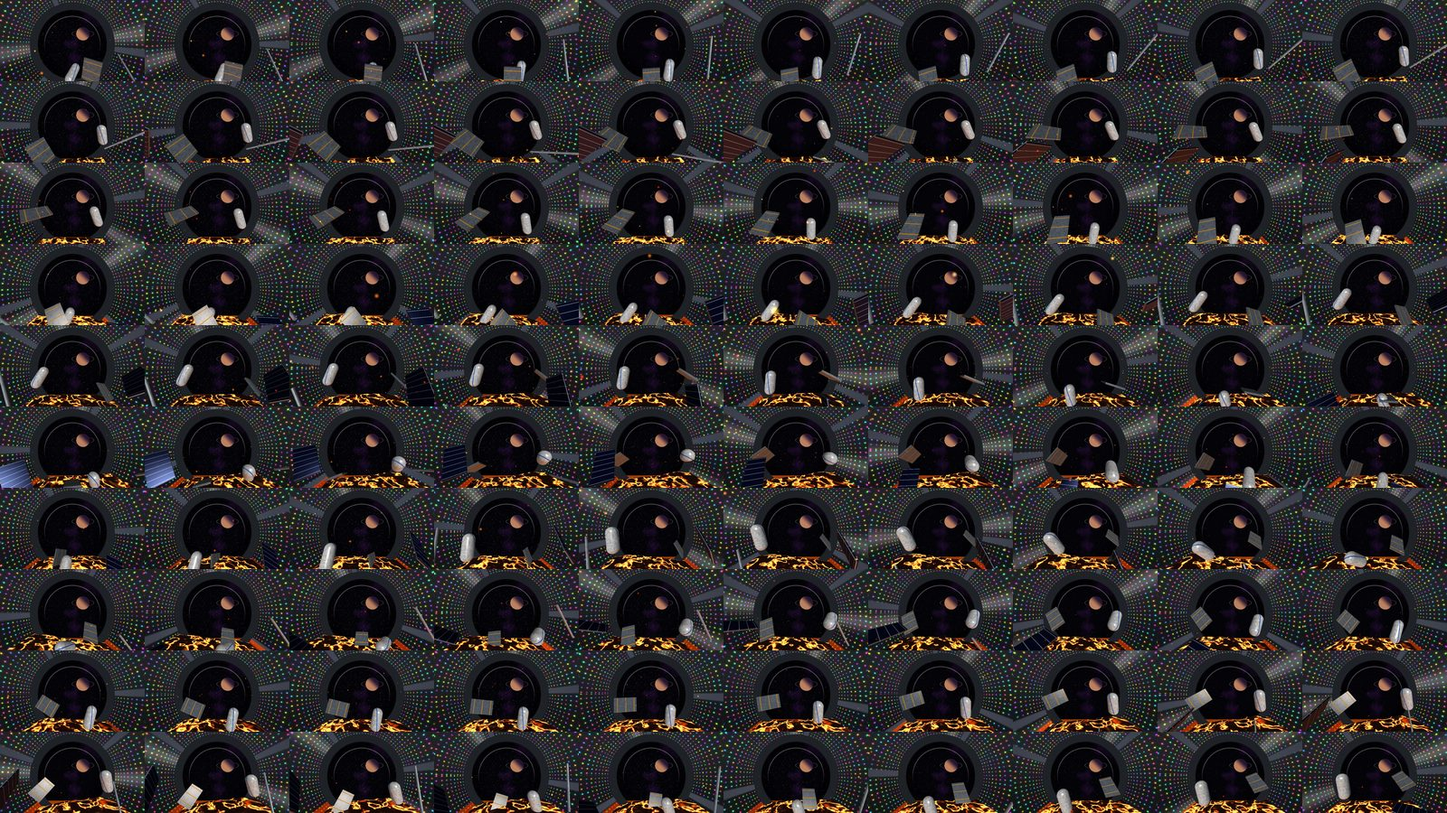
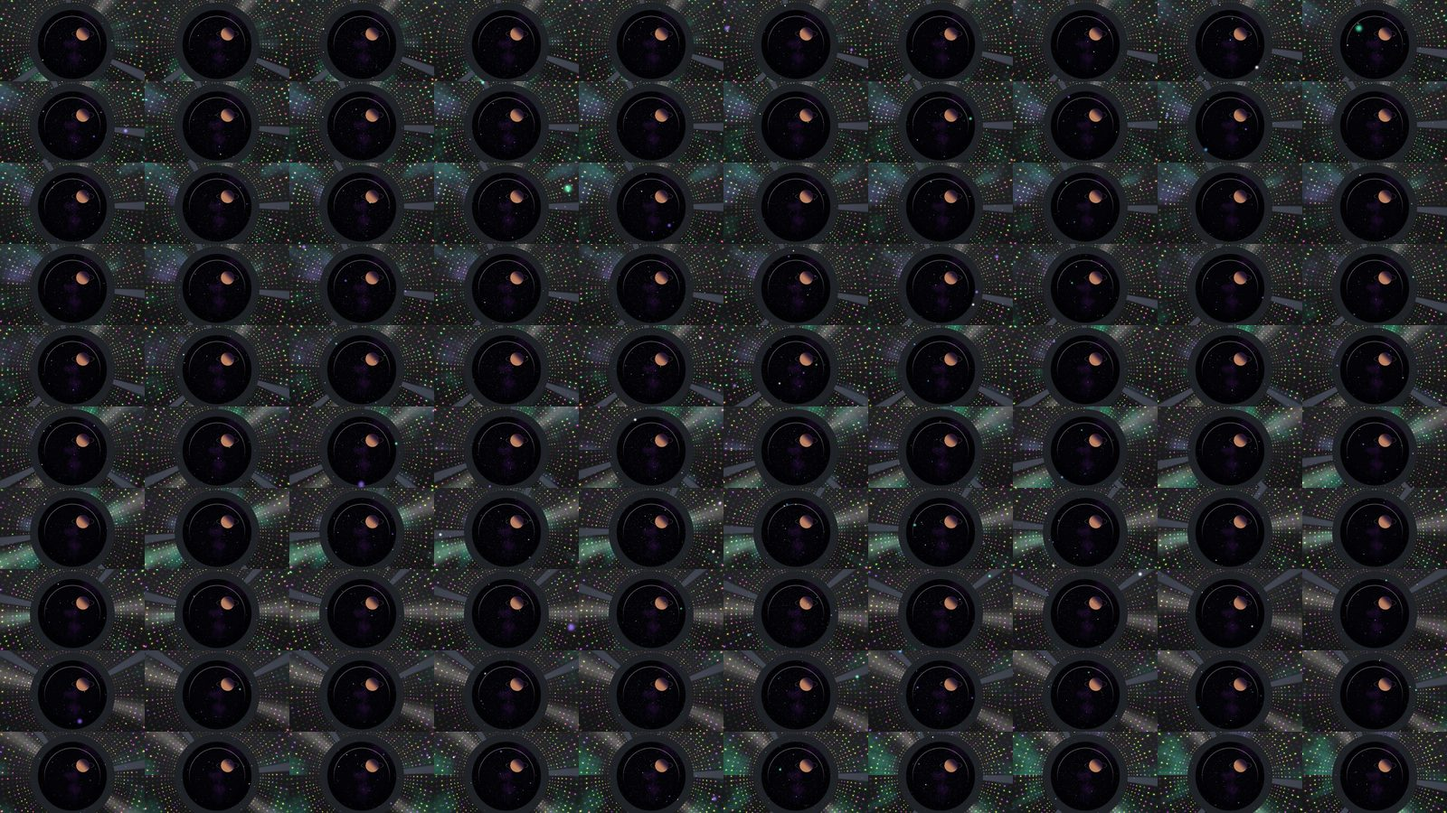
Drone show formations; calmer Space wash; menu blocks scene gestures; Church bells removed
- Drone light show: the dog, lady and bunny portraits are replaced by eleven
  formations: a turning Ferris wheel, a cottage with drifting chimney smoke, the
  Earth turning, a hovering rocket with a flickering flame, a breathing lotus, a
  butterfly flapping, Saturn and its rings, a bobbing hot-air balloon, a pulsing
  jellyfish, a whale sweeping its tail, and a crescent moon with stars
- Space wash: no junk or lava; each glowing hole breathes on its own in soft
  colours, aurora flows along the walls and stars stream in towards you; the
  drum turns slowly
- With the menu open in the headset, hands and pointers no longer reach the scene
- Church bells journey removed (scene hidden)
- sw v107

Claude-Session: https://claude.ai/code/session_0157Wu3LX7XvtocLAYFRUbic

diff --git a/src/visuals/scenes/drones.js b/src/visuals/scenes/drones.js
@@ -3,8 +3,9 @@ import { BaseScene, NOISE, GRADE, STARS, POINT_SIZE, SFX, damp } from '../common
 
 // ===================================================================== Drone light show
 // Over a still night lake, a swarm of glowing drones glides from one formation
-// to the next like a murmuration of light: a slowly turning globe, a heart, the words "You Matter", "Amazing" and "You are Enough", and a
-// spiral galaxy, each mirrored in the water below.
+// to the next like a murmuration of light: a slowly turning globe, a heart, the words "You Matter", "Amazing" and "You are Enough", a
+// spiral galaxy, a turning Ferris wheel, a cottage, the Earth, a rocket, a lotus, a butterfly,
+// Saturn, a hot-air balloon, a jellyfish, a whale and the moon, each mirrored in the water below.
 const N = 1400;
 const CY = 22, CZ = -42;
 const WORD_DRONES = 820;      // enough to read clearly, without crowding the letters          // centre of the show in the sky
@@ -200,6 +201,155 @@ function pick(src) {
   return out;
 }
 
+
+// ---- blissful formations: points with their own colours, and some that move
+// a point: [x, y, z, parked, r, g, b, kind, a, rad, ox, oy] (kind/a/rad/ox/oy for moving parts)
+const hexRGB = (h) => { const c = new THREE.Color(h); return [c.r, c.g, c.b]; };
+function fillN(pts, width = 30) {
+  const lit = pts.length > N ? pts.sort(() => Math.random() - 0.5).slice(0, N) : pts;
+  const parked = Array.from({ length: N - lit.length }, (_, i) => [(i / Math.max(1, N - lit.length) - 0.5) * width, -CY + 4 + Math.random() * 2, (Math.random() - 0.5) * 6, 1]);
+  return lit.concat(parked);
+}
+function ferrisTargets() {
+  const R = 12, pts = [];
+  for (const z of [-1.2, 1.2]) for (let i = 0; i < 170; i++) { const a = (i / 170) * Math.PI * 2; pts.push([0, 0, z, 0, ...hexRGB(i % 2 ? '#7ff0ff' : '#ffffff'), 1, a, R]); }
+  for (let s = 0; s < 12; s++) for (let k = 1; k < 10; k++) { const a = (s / 12) * Math.PI * 2; pts.push([0, 0, 0, 0, ...hexRGB('#b48aff'), 1, a, (k / 10) * R]); }
+  const cabCols = ['#ff7a9a', '#ffd27a', '#7affb0', '#7ac8ff', '#ff9a5a', '#e08aff'];
+  for (let c = 0; c < 16; c++) { const a = (c / 16) * Math.PI * 2; for (let k = 0; k < 18; k++) pts.push([0, 0, 0, 0, ...hexRGB(cabCols[c % 6]), 2, a, R, ((k % 6) / 5 - 0.5) * 1.6, -0.6 - Math.floor(k / 6) * 0.55]); }
+  for (let k = 0; k < 18; k++) pts.push([0, 0, 0, 0, ...hexRGB('#ffffff'), 1, (k / 18) * Math.PI * 2, 0.8]);
+  for (const sx of [-1, 1]) for (const z of [-1.5, 1.5]) for (let k = 0; k < 26; k++) { const f = k / 25; pts.push([sx * f * 9, -f * 17, z, 0, ...hexRGB('#8a9ab8')]); }
+  for (const p of pts) if (p[7]) { const a = p[8]; p[0] = Math.cos(a) * p[9] + (p[7] === 2 ? p[10] : 0); p[1] = Math.sin(a) * p[9] + (p[7] === 2 ? p[11] : 0); }
+  return fillN(pts);
+}
+const ferrisAnim = (b, t) => {
+  if (!b[7]) return b;
+  const a = b[8] + t * 0.22;
+  return [Math.cos(a) * b[9] + (b[7] === 2 ? b[10] : 0), Math.sin(a) * b[9] + (b[7] === 2 ? b[11] : 0), b[2]];
+};
+function earthTargets() {
+  const pts = [], M = 1250, R = 13;
+  for (let i = 0; i < M; i++) {
+    const y = 1 - (i + 0.5) / M * 2, r = Math.sqrt(1 - y * y), lon = i * 2.39996, lat = Math.asin(y);
+    const land = Math.sin(lon * 2 + 1.3) * Math.cos(lat * 2) + 0.6 * Math.sin(lon * 3 - 2) * Math.sin(lat * 3 + 1) + 0.4 * Math.cos(lon * 5 + lat * 4);
+    let col = land > 0.25 ? (Math.abs(lat) < 0.5 && land > 0.85 ? '#d9b26a' : '#3fbf5a') : '#2a6fe0';
+    if (Math.abs(lat) > 1.15) col = '#f2f8ff';
+    if (Math.sin(lon * 7 + lat * 9) + Math.sin(lon * 3 - lat * 11) > 1.55) col = '#ffffff';   // a few clouds
+    pts.push([Math.cos(lon) * r * R, y * R, Math.sin(lon) * r * R, 0, ...hexRGB(col)]);
+  }
+  return fillN(pts);
+}
+function saturnTargets() {
+  const pts = [], R = 7;
+  for (let i = 0; i < 700; i++) {
+    const y = 1 - (i + 0.5) / 700 * 2, r = Math.sqrt(1 - y * y), a = i * 2.39996;
+    pts.push([Math.cos(a) * r * R, y * R * 0.92, Math.sin(a) * r * R, 0, ...hexRGB(Math.sin(y * 14) > 0.3 ? '#f2d39a' : '#d9a86a')]);
+  }
+  const tilt = 0.42;
+  for (let i = 0; i < 620; i++) {
+    const rr = 10 + Math.random() * 6, a = Math.random() * Math.PI * 2;
+    if (rr > 13.2 && rr < 13.7) continue;   // the Cassini division
+    const x = Math.cos(a) * rr, z = Math.sin(a) * rr;
+    pts.push([x, -z * Math.sin(tilt), z * Math.cos(tilt), 0, ...hexRGB(rr < 13 ? '#fff0c8' : '#e8c890')]);
+  }
+  return fillN(pts);
+}
+function butterflyTargets() {
+  const pts = [];
+  const inWing = (x, y) => ((x - 6) / 7) ** 2 + ((y - 3.5) / 5.5) ** 2 < 1 || ((x - 4.5) / 4.5) ** 2 + ((y + 4) / 3.8) ** 2 < 1;
+  while (pts.length < 2300) {
+    const x = Math.random() * 14, y = Math.random() * 18 - 8.5;
+    if (x < 0.4 || !inWing(x, y)) continue;
+    const edge = !inWing(x + 0.9, y) || !inWing(x, y + 0.9) || !inWing(x, y - 0.9);
+    const spot = (x - 9) ** 2 + (y - 5) ** 2 < 1.6 || (x - 6) ** 2 + (y + 4.5) ** 2 < 1.2;
+    const col = spot ? '#ffffff' : edge ? '#7a3aaa' : y > 0 ? (x > 7 ? '#ff8a3a' : '#ffb04a') : '#c86aff';
+    for (const sx of [1, -1]) pts.push([sx * x, y, 0, 0, ...hexRGB(col), 3]);
+  }
+  for (let k = 0; k < 40; k++) pts.push([0, -6 + k * 0.32, 0, 0, ...hexRGB('#ffe8c8')]);
+  for (const sx of [-1, 1]) for (let k = 0; k < 10; k++) pts.push([sx * k * 0.3, 7 + k * 0.4, 0, 0, ...hexRGB('#ffe8c8')]);   // antennae
+  return fillN(spread(pts.sort(() => Math.random() - 0.5), 1250));
+}
+const butterflyAnim = (b, t) => {
+  if (b[7] !== 3) return b;
+  const f = 0.75 * Math.sin(t * 2.0) ** 2;   // the wings lift and open again
+  return [Math.sign(b[0]) * Math.abs(b[0]) * Math.cos(f), b[1], Math.abs(b[0]) * Math.sin(f) + b[2]];
+};
+function jellyfishTargets() {
+  const pts = [];
+  for (let i = 0; i < 620; i++) {
+    const y = (i + 0.5) / 620, r = Math.sqrt(1 - y * y), a = i * 2.39996;
+    pts.push([Math.cos(a) * r * 8, 6 + y * 5.5, Math.sin(a) * r * 8, 0, ...hexRGB(y > 0.6 ? '#ffb8f0' : '#c88aff'), 4]);
+  }
+  for (let s = 0; s < 12; s++) {
+    const a = (s / 12) * Math.PI * 2, cx = Math.cos(a) * (s % 2 ? 6 : 3.5), cz = Math.sin(a) * (s % 2 ? 6 : 3.5);
+    for (let k = 0; k < 55; k++) pts.push([cx, 6 - k * 0.32, cz, 0, ...hexRGB(s % 2 ? '#8af0ff' : '#ffd0f8'), 5, s, k * 0.32]);
+  }
+  return fillN(pts);
+}
+const jellyAnim = (b, t) => {
+  if (b[7] === 4) { const k = 1 + 0.07 * Math.sin(t * 1.4); return [b[0] * k, 6 + (b[1] - 6) / k, b[2] * k]; }
+  if (b[7] === 5) { const d = b[9], w = (Math.sin(t * 1.4 - d * 0.35 + b[8]) - Math.sin(-d * 0.35 + b[8])) * 0.12 * d; return [b[0] + w, b[1], b[2] + w * 0.5]; }
+  return b;
+};
+// pictures, drawn and then flown
+function drawCottage(c) {
+  c.fillStyle = '#3a8a4a'; c.fillRect(0, 335, 600, 65);                                          // the lawn
+  c.fillStyle = '#e8eef8'; c.fillRect(170, 190, 260, 150);                                       // the walls
+  c.fillStyle = '#e0553a'; c.beginPath(); c.moveTo(150, 195); c.lineTo(300, 90); c.lineTo(450, 195); c.fill();   // the roof
+  c.fillStyle = '#b07a5a'; c.fillRect(380, 100, 30, 70);                                         // the chimney
+  c.fillStyle = '#ffd36a'; for (const [x, y] of [[195, 215], [345, 215], [195, 275]]) c.fillRect(x, y, 55, 42);   // glowing windows
+  c.beginPath(); c.arc(300, 140, 18, 0, Math.PI * 2); c.fill();                                  // the round attic window
+  c.fillStyle = '#a06a3a'; c.fillRect(280, 270, 44, 70);                                         // the door
+  c.fillStyle = '#e8e8e8'; for (let k = 0; k < 5; k++) { c.beginPath(); c.arc(398 + k * 16, 80 - k * 18, 10 + k * 3, 0, Math.PI * 2); c.fill(); }   // smoke
+  c.fillStyle = '#3aaa5a'; c.beginPath(); c.arc(510, 230, 50, 0, Math.PI * 2); c.fill(); c.fillStyle = '#8a5a3a'; c.fillRect(500, 270, 20, 65);   // a tree
+}
+const cottageAnim = (b, t) => (b[4] > 0.85 && b[5] > 0.85 && b[6] > 0.85 && b[1] > 9 ? [b[0] + 0.6 * (Math.sin(t * 0.9 + b[1] * 0.4) - Math.sin(b[1] * 0.4)), b[1] + 0.5 * Math.sin(t * 0.6) ** 2, b[2]] : b);
+function drawRocket(c) {
+  c.fillStyle = '#e8eef8'; c.beginPath(); c.moveTo(300, 30); c.bezierCurveTo(360, 90, 360, 220, 340, 290); c.lineTo(260, 290); c.bezierCurveTo(240, 220, 240, 90, 300, 30); c.fill();
+  c.fillStyle = '#ff4a5a'; c.beginPath(); c.moveTo(300, 30); c.bezierCurveTo(330, 55, 342, 80, 345, 100); c.lineTo(255, 100); c.bezierCurveTo(258, 80, 270, 55, 300, 30); c.fill();   // the nose
+  c.fillStyle = '#5ab8ff'; c.beginPath(); c.arc(300, 160, 26, 0, Math.PI * 2); c.fill();      // the porthole
+  c.fillStyle = '#ff4a5a'; c.beginPath(); c.moveTo(262, 230); c.lineTo(215, 300); c.lineTo(262, 290); c.fill(); c.beginPath(); c.moveTo(338, 230); c.lineTo(385, 300); c.lineTo(338, 290); c.fill();   // fins
+  c.fillStyle = '#ffa020'; c.beginPath(); c.moveTo(268, 292); c.quadraticCurveTo(300, 400, 332, 292); c.fill();   // the flame
+  c.fillStyle = '#fff07a'; c.beginPath(); c.moveTo(284, 292); c.quadraticCurveTo(300, 360, 316, 292); c.fill();
+}
+const rocketAnim = (b, t, i) => {
+  const flame = b[1] < -4 && b[4] > 0.9 && b[6] < 0.6;
+  return [b[0], b[1] + 0.6 * Math.sin(t * 0.8) + (flame ? 0.5 * (Math.sin(t * 13 + i) - Math.sin(i)) : 0), b[2]];
+};
+function drawLotus(c) {
+  c.fillStyle = '#3aaa6a'; c.beginPath(); c.ellipse(170, 330, 120, 26, 0, 0, Math.PI * 2); c.fill(); c.beginPath(); c.ellipse(440, 335, 120, 24, 0, 0, Math.PI * 2); c.fill();   // lily pads
+  const petal = (a, len, w, col) => { c.save(); c.translate(300, 300); c.rotate(a); c.fillStyle = col; c.beginPath(); c.moveTo(0, 0); c.quadraticCurveTo(w, -len * 0.55, 0, -len); c.quadraticCurveTo(-w, -len * 0.55, 0, 0); c.fill(); c.restore(); };
+  for (const a of [-1.3, -0.85, 0.85, 1.3]) petal(a, 170, 60, '#ff8ac8');
+  for (const a of [-0.55, -0.2, 0.2, 0.55]) petal(a, 210, 55, '#ffb8e0');
+  petal(0, 240, 50, '#fff0f8');
+  c.fillStyle = '#ffd36a'; c.beginPath(); c.ellipse(300, 290, 40, 16, 0, 0, Math.PI * 2); c.fill();
+}
+const lotusAnim = (b, t) => { const k = 1 + 0.05 * Math.sin(t * 0.7); return [b[0] * k, b[1] * k, b[2]]; };
+function drawBalloon(c) {
+  const cols = ['#ff4a5a', '#ffb02a', '#ffe14a', '#4ad07a', '#4ab8ff', '#a46aff'];
+  c.save(); c.beginPath(); c.moveTo(300, 330); c.bezierCurveTo(140, 230, 150, 30, 300, 30); c.bezierCurveTo(450, 30, 460, 230, 300, 330); c.clip();
+  for (let k = 0; k < 12; k++) { c.fillStyle = cols[k % 6]; c.fillRect(150 + k * 26, 0, 26, 400); }
+  c.restore();
+  c.strokeStyle = '#e8d8b0'; c.lineWidth = 4; c.beginPath(); c.moveTo(270, 318); c.lineTo(282, 360); c.moveTo(330, 318); c.lineTo(318, 360); c.stroke();
+  c.fillStyle = '#c08a5a'; c.fillRect(276, 358, 48, 34);
+}
+const balloonAnim = (b, t) => [b[0] + 1.0 * Math.sin(t * 0.3), b[1] + 1.4 * Math.sin(t * 0.5), b[2]];
+function drawWhale(c) {
+  c.fillStyle = '#3a8ae0';
+  c.beginPath(); c.moveTo(60, 230); c.bezierCurveTo(80, 120, 300, 110, 420, 190); c.bezierCurveTo(460, 210, 480, 220, 500, 200);
+  c.lineTo(560, 150); c.lineTo(545, 215); c.lineTo(580, 260); c.lineTo(500, 235); c.bezierCurveTo(440, 270, 200, 300, 60, 230); c.fill();
+  c.fillStyle = '#bfe0ff'; c.beginPath(); c.moveTo(70, 240); c.bezierCurveTo(160, 290, 330, 280, 430, 240); c.bezierCurveTo(330, 260, 160, 265, 70, 240); c.fill();   // the pale belly
+  c.fillStyle = '#ffffff'; c.beginPath(); c.arc(130, 200, 7, 0, Math.PI * 2); c.fill();   // eye
+  c.fillStyle = '#bff0ff'; for (let k = 0; k < 6; k++) { c.beginPath(); c.arc(150 + (k % 2 ? 10 : -10), 110 - k * 14, 6 + k, 0, Math.PI * 2); c.fill(); }   // the spout
+}
+const whaleAnim = (b, t) => (b[0] > 6 ? [b[0], b[1] + 1.4 * Math.sin(t * 1.1) * ((b[0] - 6) / 14), b[2]] : [b[0], b[1] + 0.3 * Math.sin(t * 1.1), b[2]]);
+function drawMoon(c) {
+  c.fillStyle = '#ffe9a8'; c.beginPath(); c.arc(300, 200, 140, 0, Math.PI * 2); c.fill();
+  c.globalCompositeOperation = 'destination-out'; c.beginPath(); c.arc(360, 170, 125, 0, Math.PI * 2); c.fill(); c.globalCompositeOperation = 'source-over';
+  c.fillStyle = '#ffffff';
+  const star = (x, y, r) => { c.beginPath(); for (let k = 0; k < 10; k++) { const a = (k / 10) * Math.PI * 2 - Math.PI / 2, rr = k % 2 ? r * 0.45 : r; c.lineTo(x + Math.cos(a) * rr, y + Math.sin(a) * rr); } c.fill(); };
+  star(470, 90, 26); star(520, 230, 18); star(420, 310, 20); star(90, 80, 16); star(540, 340, 12);
+}
+
 const SHOW = [
   { kind: 'sphere', hold: 16, cols: ['#6fd3ff', '#a493ff', '#ffffff'], spin: 0.15 },
   { kind: 'heart', hold: 18, cols: ['#ff3b6b', '#ff6f91', '#ffb3c6'], spin: 0.05 },
@@ -208,11 +358,18 @@ const SHOW = [
   { kind: 'text', text: 'Amazing', hold: 14, cols: ['#7ff0ff', '#b8a9ff', '#ffffff'] },
   { kind: 'spiral', hold: 16, cols: ['#a493ff', '#f29bd0', '#5ed6d0'], spin: 0.08 },
   { kind: 'text', text: 'You are Enough', hold: 16, cols: ['#ffd27a', '#ffffff', '#ffb36b'] },
-  { kind: 'photo', name: 'dog', hold: 18 },
+  { kind: 'gen', make: ferrisTargets, anim: ferrisAnim, hold: 22 },
+  { kind: 'picture', draw: drawCottage, anim: cottageAnim, hold: 18 },
+  { kind: 'gen', make: earthTargets, hold: 20, spin: 0.12 },
   { kind: 'heart', hold: 10, cols: ['#ff3b6b', '#ff8fb4', '#ffffff'] },
-  { kind: 'photo', name: 'lady', hold: 22 },
-  { kind: 'sphere', hold: 10, cols: ['#6fd3ff', '#a493ff', '#ffffff'], spin: 0.15 },
-  { kind: 'photo', name: 'bunny', hold: 18 },
+  { kind: 'picture', draw: drawRocket, anim: rocketAnim, hold: 16 },
+  { kind: 'picture', draw: drawLotus, anim: lotusAnim, hold: 18 },
+  { kind: 'gen', make: butterflyTargets, anim: butterflyAnim, hold: 18 },
+  { kind: 'gen', make: saturnTargets, hold: 18, spin: 0.08 },
+  { kind: 'picture', draw: drawBalloon, anim: balloonAnim, hold: 16 },
+  { kind: 'gen', make: jellyfishTargets, anim: jellyAnim, hold: 18, spin: 0.05 },
+  { kind: 'picture', draw: drawWhale, anim: whaleAnim, hold: 18 },
+  { kind: 'picture', draw: drawMoon, hold: 16 },
   { kind: 'picture', draw: drawBrand, hold: 16, wide: true },
 ];
 
@@ -300,6 +457,7 @@ export class DroneShowScene extends BaseScene {
     if (f.kind === 'picture') return f.wide ? pictureTargets(f.draw, 66, 1150, 900, 300) : pictureTargets(f.draw, 46, 1100);
     if (f.kind === 'photo') return photoTargets(f.name, f.name === 'lady' ? 34 : 32) || sphereTargets();
     if (f.kind === 'spiral') return spiralTargets();
+    if (f.kind === 'gen') return f.make();
     return sphereTargets();
   }
   // order target points to roughly match where each drone is now, so they glide sideways
@@ -315,7 +473,9 @@ export class DroneShowScene extends BaseScene {
     const cs = Math.cos(this.spin), sn = Math.sin(this.spin);
     const nav = 0.12;
     for (let i = 0; i < N; i++) {
-      const a = this.from[i], b = this.to[i], m = this.mid[i];
+      const a = this.from[i], m = this.mid[i];
+      let b = this.to[i];
+      if (k === 99 && this.cur.anim && !b[3]) b = this.cur.anim(b, this.animT || 0, i);
       const local = (k - this.delay[i]) / this.dur[i];
       const e0 = Math.min(1, Math.max(0, local));
       const e = e0 * e0 * (3 - 2 * e0);
@@ -363,7 +523,9 @@ export class DroneShowScene extends BaseScene {
       this.state = 'move'; this.t = 0;
       if (this.fade > 0.5) SFX.play('whoosh', { pan: 0, dur: 5, gain: 0.25 });
     }
+    if (this.state === 'hold') this.animT = (this.animT || 0) + dt;
     if (this.state === 'move') {
+      this.animT = 0;
       this._place(this.t);
       if (this.t > 8.5) { this.state = 'hold'; this.t = 0; if (this.fade > 0.5) SFX.play('chime', { note: [0, 4, 7, 12][this.step % 4], pan: 0, gain: 0.3 }); }
     } else this._place(99);

diff --git a/src/visuals/scenes/spacewash.js b/src/visuals/scenes/spacewash.js
@@ -3,12 +3,11 @@ import { BaseScene, NOISE, GRADE, SFX, damp } from '../common.js';
 import { particles } from './kit.js';
 
 // ===================================================================== Space wash
-// The washing machine, gone cosmic. Every perforation in the drum is a glowing
-// orb of light; through the door, space. Molten lava floods in instead of water,
-// crusted and cracked with fire, embers rising, and the drum tumbles a load of
-// spaceship junk (hull panels, a solar panel, a dish, a thruster, a fuel tank,
-// an antenna) before draining and spinning up, the orbs streaking into rings of
-// light. The door and the lava stay level, so it stays comfortable.
+// The washing machine, gone cosmic and calm. Every perforation in the drum is
+// an orb of light that breathes on its own, slowly brightening and fading in
+// soft teal, blue, violet and rose; aurora light flows along the walls and a
+// starfield streams in through the door towards you, while the drum turns
+// slowly one way, then the other.
 const R = 2.3, FRONT = -3.2, BACK = 2.6, EYE = 1.6;
 const PHASES = [['fill', 14], ['wash', 42], ['drain', 8], ['spin', 18], ['slow', 7], ['rest', 5]];
 const CYCLE = PHASES.reduce((s, p) => s + p[1], 0);
@@ -42,10 +41,17 @@ export class SpaceWashScene extends BaseScene {
           // every hole a glowing orb, slowly cycling through colours; streaking into rings in the spin
           vec2 id = floor(g);
           float h = fract(sin(dot(id, vec2(12.9898, 78.233))) * 43758.5453);
-          vec3 oc = 0.55 + 0.45 * cos(6.28318 * (h + uTime * 0.05 + vec3(0.0, 0.33, 0.67)));
+          vec3 oc = 0.6 + 0.4 * cos(6.28318 * (h * 0.6 + 0.45 + uTime * 0.01 + vec3(0.0, 0.33, 0.67)));   // soft teal, blue, violet and rose
           float orb = smoothstep(0.2, 0.0, length(f)), halo = exp(-dot(f, f) * 18.0);
           c *= 0.22;   // dark steel, so the orbs shine
-          c += oc * (orb * 1.6 + halo * 0.35) * (0.75 + 0.25 * sin(uTime * 2.0 + h * 40.0));
+          // each orb breathes on its own, slowly: rising, resting, fading
+          float period = 5.0 + h * 9.0, ph = fract(uTime / period + h * 7.0);
+          float breath = pow(0.5 + 0.5 * sin(ph * 6.28318), 2.0);
+          c += oc * (orb * 1.4 + halo * 0.3) * (0.12 + 0.88 * breath);
+          // aurora light flowing along the walls, towards you
+          float flow = fbm(vec3(a * 1.8, z * 0.5 + uTime * 0.35, uTime * 0.05));
+          vec3 ac = mix(vec3(0.1, 0.9, 0.55), vec3(0.6, 0.3, 1.0), smoothstep(0.3, 0.8, fbm(vec3(a, z * 0.2, 7.0))));
+          c += ac * smoothstep(0.5, 0.85, flow) * 0.45;
           c += vec3(1.0, 0.97, 0.9) * pow(max(0.0, sin(a * 2.0 + 1.0)), 30.0) * 0.25 * lightF;   // a soft sheen
           // the three paddles
           float pd = abs(fract(a / 6.28318 * 3.0) - 0.5);
@@ -113,8 +119,7 @@ export class SpaceWashScene extends BaseScene {
           c += vec3(1.0, 0.5, 0.1) * pow(vnoise(vec3(vP.xz * 6.0, uTime * 1.5)), 10.0) * 0.8;   // bubbles bursting
           gl_FragColor = vec4(grade(c), uFade); }`,
     }));
-    this.rig.add(water);
-    this.suds = particles(U, { count: 320, min: [-1.8, -2.2, -3], max: [1.8, 0.4, 2.4], vel: [0, 0.35, 0], sway: 0.4, size: [0.01, 0.035], colors: ['#ffb040', '#ff6a10', '#ffe08a'], alpha: 0 });   // embers
+    this.suds = particles(U, { count: 700, min: [-1.7, -1.7, FRONT], max: [1.7, 1.7, BACK], vel: [0, 0, 1.6], sway: 0.15, size: [0.008, 0.03], colors: ['#ffffff', '#9affd8', '#c8a8ff', '#8ad8ff'], alpha: 0.85 });   // stars streaming in through the door
     this.rig.add(this.suds);
 
     // the load: spaceship junk, metal and panels, lit by the lava and the orbs
@@ -140,55 +145,20 @@ export class SpaceWashScene extends BaseScene {
       [new THREE.CylinderGeometry(0.02, 0.02, 1.0, 8), metal('#c8ccd2', '#c8ccd2', 0)],               // an antenna
       [new THREE.BoxGeometry(0.4, 0.4, 0.4), metal('#7a7f88', '#e74c3c', 0)],                         // a cargo box
     ];
-    this.clothes = junk.map(([g, mat], i) => {
-      const m = new THREE.Mesh(g, mat);
-      this.rig.add(m);
-      return { m, phase: i / junk.length * Math.PI * 2, z: FRONT + 0.9 + (i % 4) * 1.2, spin: new THREE.Vector3(Math.random(), Math.random(), Math.random()) };
-    });
+    this.clothes = [];   // nothing tumbling: just light
 
     this.t = 0; this.ang = 0; this.vel = 0; this.dir = 1; this.flip = 8; this.phaseName = '';
   }
   _sfx(kind, o) { if (this.fade > 0.5) SFX.play(kind, o); }
   update(dt) {
     const U = this.uniforms;
-    this.t = (this.t + dt) % CYCLE;
-    let k = this.t, ph = 'fill', pt = 0;
-    for (const [name, len] of PHASES) { if (k < len) { ph = name; pt = k / len; break; } k -= len; }
-    if (ph !== this.phaseName) {
-      this.phaseName = ph;
-      if (ph === 'fill') this._sfx('hiss', { pan: 0, gain: 0.4, dur: 12, freq: 180 });
-      if (ph === 'spin') this._sfx('whoosh', { pan: 0, dur: 6, gain: 0.5 });
-      if (ph === 'drain') this._sfx('hiss', { pan: 0.3, gain: 0.3, dur: 7, freq: 140 });
-    }
-    // water level: fills, holds, drains
-    const full = -R + 0.9, empty = -R - 0.1;
-    const level = ph === 'fill' ? empty + (full - empty) * pt : ph === 'wash' ? full : ph === 'drain' ? full + (empty - full) * pt : empty;
-    U.uLevel.value = damp(U.uLevel.value, level, 2, dt);
-    // drum speed (radians/s): gentle back-and-forth tumbling, then a fast spin
-    let target = 0;
-    if (ph === 'fill') target = 0.6 * this.dir;
-    if (ph === 'wash') { this.flip -= dt; if (this.flip <= 0) { this.dir *= -1; this.flip = 7 + Math.random() * 3; } target = 1.6 * this.dir; }
-    if (ph === 'drain') target = 0.8;
-    if (ph === 'spin') target = 2 + 5 * Math.min(1, pt * 2);
-    if (ph === 'slow') target = 7 * (1 - pt);
-    this.vel = damp(this.vel, target, ph === 'wash' ? 1.2 : 0.8, dt);
+    // the drum turns slowly, easing one way and then the other
+    this.flip -= dt;
+    if (this.flip <= 0) { this.dir *= -1; this.flip = 18 + Math.random() * 10; }
+    this.vel = damp(this.vel, 0.18 * this.dir, 0.3, dt);
     this.ang += this.vel * dt;
     U.uAng.value = this.ang;
-    U.uSpin.value = Math.min(1, Math.max(0, (Math.abs(this.vel) - 2) / 5));
-    U.uSlosh.value = damp(U.uSlosh.value, Math.min(1, Math.abs(this.vel)), 1, dt);
-    this.suds.userData.u.uAlpha.value = U.uLevel.value > -R + 0.2 ? 0.9 : 0.15;
-    // the washing: lifted by the paddles, tumbling back down; pressed to the wall in the spin
-    const pinned = U.uSpin.value;
-    for (const c of this.clothes) {
-      const lift = (this.ang * 0.9 + c.phase) % (Math.PI * 2);
-      const tumbleA = -Math.PI / 2 + Math.sin(lift) * 1.4;                    // rises up the side, then falls back
-      const wallA = this.ang + c.phase;                                       // stuck to the turning wall
-      const a = tumbleA * (1 - pinned) + wallA * pinned;
-      const r = (R - 0.55) * (0.75 + 0.25 * pinned) + Math.sin(lift * 2) * 0.15 * (1 - pinned);
-      c.m.position.set(Math.cos(a) * r, Math.sin(a) * r, c.z + Math.sin(this.ang * 0.3 + c.phase) * 0.3);
-      c.m.rotation.x += dt * c.spin.x * (1.5 - pinned);
-      c.m.rotation.y += dt * c.spin.y * (1.5 - pinned);
-      c.m.rotation.z = pinned ? a + Math.PI / 2 : c.m.rotation.z + dt * c.spin.z;
-    }
+    U.uSpin.value = 0;
+    U.uLevel.value = -R - 1;   // empty
   }
 }

diff --git a/src/journeys.js b/src/journeys.js
@@ -38,7 +38,6 @@ export function buildJourneys() {
     { ...base('connect'), musicOff: true, id: 'j-metalchimes', title: 'Metal wind chimes', intent: 'Sweep your hand through tuned silver chimes at dusk', scene: 'metalchimes', palette: ['#0a1030', '#6a7ab0', '#ffd0d0'] },
     { ...base('ground'), musicOff: true, id: 'j-woodchimes', title: 'Wooden wind chimes', intent: 'Bamboo chimes knocking softly in a golden grove', scene: 'woodchimes', palette: ['#1a1006', '#a8742a', '#ffe0a0'] },
     { ...base('connect'), musicOff: true, id: 'j-handbells', title: 'Handbells', intent: 'Ring a table of brass handbells by candlelight · tap, or lift and flick', scene: 'handbells', palette: ['#140a06', '#2a3a8a', '#ffd27a'] },
-    { ...base('ground'), musicOff: true, id: 'j-churchbells', title: 'Church bells', intent: 'Pull the ropes in a tower ringing room and ring rounds', scene: 'churchbells', palette: ['#120a08', '#8a3a1a', '#ffb070'] },
     { ...base('crown'), musicOff: true, id: 'j-handpan', title: 'Handpan', intent: 'A handpan in the aurora-lit dark · eight tunings, including the monks\u2019 harmonics', scene: 'handpan', palette: ['#1a0e08', '#a8542a', '#ffd27a'] },
     { ...base('release'), musicOff: true, id: 'j-steeldrums', title: 'Space steel drums', intent: 'A chrome steel pan adrift in the stars, singing like Tibetan bowls', scene: 'steeldrums', palette: ['#05061a', '#5a4ab0', '#bfe0ff'] },
     { ...base('clarity'), id: 'j-cymatics', title: 'Cymatics', intent: 'The Clarity plate, playable: touch a frequency ring, or watch the sand follow the music', scene: 'cymaticplate', palette: ['#06041a', '#5a3ab0', '#ffe8c0'] },

diff --git a/src/visuals/scenes/index.js b/src/visuals/scenes/index.js
@@ -128,7 +128,7 @@ export const SCENES = {
   tibetanbowls: { type: SingingBowlsScene, label: 'Tibetan singing bowls', group: 'Mind', premium: true, cruise: 0, nebula: 0, world: 'off' },
   crystalbowls: { type: CrystalBowlsScene, label: 'Crystal singing bowls', group: 'Mind', premium: true, cruise: 0, nebula: 0, world: 'off' },
   handbells: { type: HandbellsScene, label: 'Handbells', group: 'Mind', premium: true, cruise: 0, nebula: 0, world: 'off' },
-  churchbells: { type: ChurchBellsScene, label: 'Church bells', group: 'Mind', premium: true, cruise: 0, nebula: 0, world: 'off' },
+  churchbells: { hidden: true, type: ChurchBellsScene, label: 'Church bells', group: 'Mind', premium: true, cruise: 0, nebula: 0, world: 'off' },
   handpan: { type: HandpanScene, label: 'Handpan', group: 'Mind', premium: true, cruise: 0, nebula: 0, world: 'off' },
   steeldrums: { type: SteelDrumsScene, label: 'Space steel drums', group: 'Mind', premium: true, cruise: 0, nebula: 0, world: 'off' },
   cymaticplate: { type: CymaticPlateScene, label: 'Cymatics instrument', group: 'Mind', premium: true, cruise: 0.4, nebula: 0.7, world: 'full' },

diff --git a/public/sw.js b/public/sw.js
@@ -1,7 +1,7 @@
 // Network-first with offline fallback: you always get the newest version
 // (and any newly recorded voice clips) when online, and MindLyte still works
 // with no connection because everything it plays is generated on-device.
-const CACHE = 'mindlyte-v106';
+const CACHE = 'mindlyte-v107';
 const SHELL = ['./', './index.html', './app.js', './styles.css', './manifest.webmanifest', './icons/icon-192.png', './icons/icon-512.png'];
 
 self.addEventListener('install', (e) => {

diff --git a/src/main.js b/src/main.js
@@ -909,6 +909,8 @@ class App {
     }
     INPUT.hands = hands;
     this._detectShake(list);
+    // while the menu is open, hands and pointers are for the menu only: the scene doesn't see them
+    if (xr.isPresenting && this.menu.visible) { INPUT.pointers = []; INPUT.hands = []; INPUT.held.clear(); }
   }
 
   // Shaking both hands for about two seconds also centres the view.
